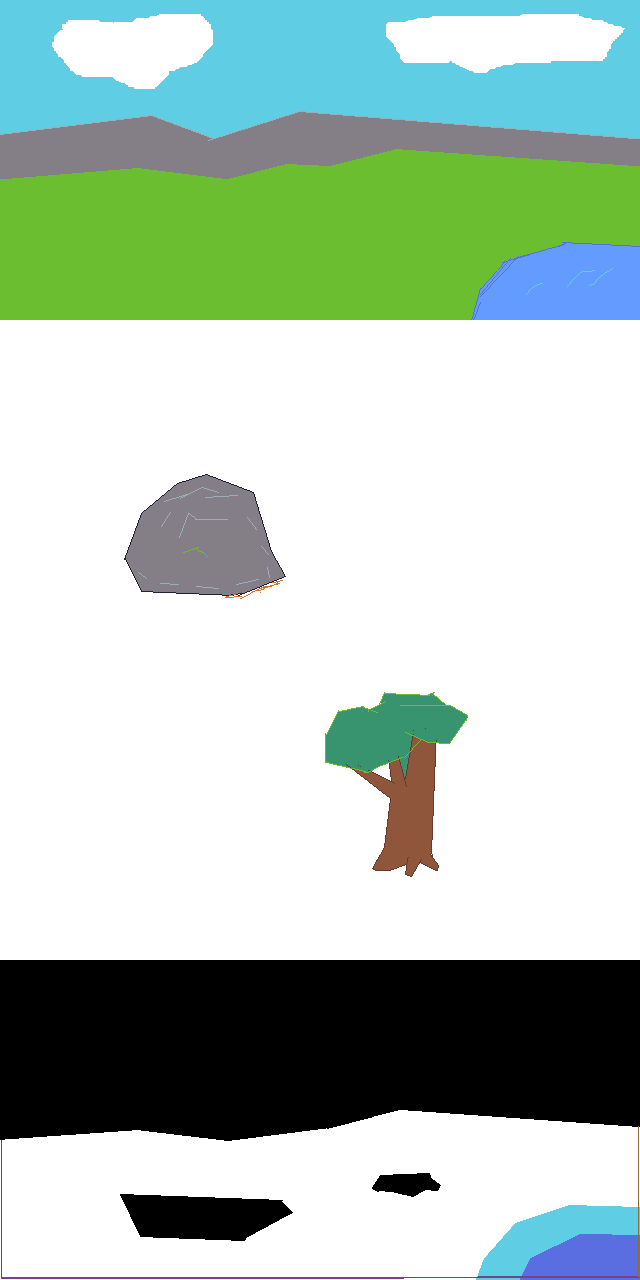
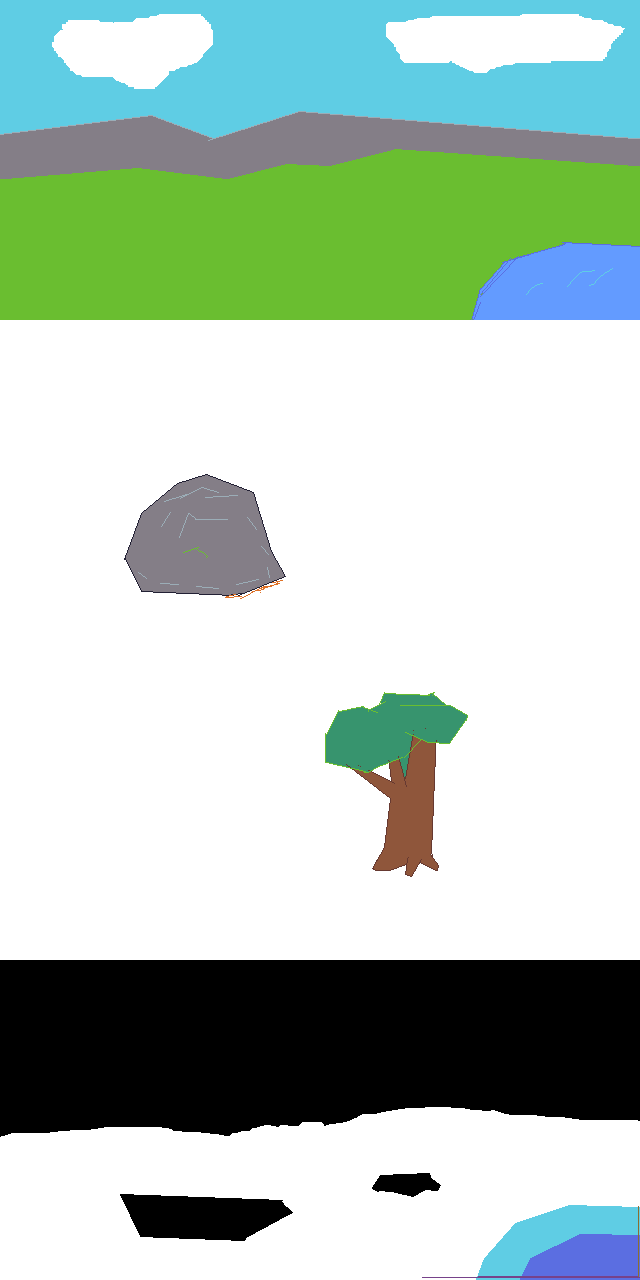
Updated game test

diff --git a/game-test/game.html b/game-test/game.html
@@ -58,9 +58,13 @@ app.loader
 			const room = new PIXI.Container();
 			room.sortableChildren = true;
 			app.stage.addChild(room);
-			
+
 			const roomSheet = resources["room0.json"].spritesheet;
 			console.log(roomSheet);
+			const roomMap = {
+				pixels: [], width: 0, height: 0
+			};
+
 			Object.keys(roomSheet.textures)
 				.forEach(name => {
 					const info = {};
@@ -90,8 +94,10 @@ app.loader
 							map.texture.orig.width, map.texture.orig.height,
 							0,0,
 							map.width, map.height);
-						const pixels = ctx.getImageData(0, 0, map.width, map.height).data
-						console.log(pixels);
+						roomMap.pixels = ctx.getImageData(0, 0, map.width, map.height).data
+						roomMap.width = map.width;
+						roomMap.height = map.height;
+						//console.log(roomMap.pixels);
 					}
 				});
 
@@ -126,6 +132,15 @@ room
 
 			//    app.stage.addChild(bunny);
 
+			const playerCanvas = document.createElement('canvas');
+			const playerCtx = playerCanvas.getContext('2d');
+			const player = {
+				x: 110, y: 318,
+				dx: 0, dy: 0,
+				pixels: {},
+				anchor: { x: 0, y: 0, width: 0, height: 0 }
+			}
+
 			const sheet2 = resources["sprite-test-v2.json"].spritesheet;
 			console.log(sheet2);
 			const animations = {};
@@ -139,11 +154,31 @@ room
 							info[pair[0]] = pair[1];
 						});
 					if('tag' in info) {
-						if (!(info.tag in animations)) {
-							animations[info.tag] = [];
-						}
-						const frames = animations[info.tag];
-						frames.push(sheet2.textures[name]);
+						if(info.tag == 'map') {
+							const map = new PIXI.Sprite(sheet2.textures[name]);
+							console.log('Char Map: width - ' + map.width + ' height - ' + map.height);
+							playerCanvas.width = map.width;
+							playerCanvas.height = map.height;
+							console.log('txt ' + map.texture.orig.x + ' ' + map.texture.orig.y);
+							playerCtx.drawImage(map.texture.baseTexture.resource.source,
+								map.texture.orig.x, map.texture.orig.y,
+								map.texture.orig.width, map.texture.orig.height,
+								0,0,
+								map.width, map.height);
+							player.pixels = playerCtx.getImageData(0, 0, map.width, map.height).data;
+							console.log(player.pixels);
+							console.log(map.anchor);
+							player.anchor.x = map.anchor.x;
+							player.anchor.y = map.anchor.y;
+							player.anchor.width = map.width;
+							player.anchor.height = map.height;
+						}// else {
+							if (!(info.tag in animations)) {
+								animations[info.tag] = [];
+							}
+							const frames = animations[info.tag];
+							frames.push(sheet2.textures[name]);
+						//}
 					}
 					console.log(info);
 				});
@@ -163,16 +198,13 @@ room
 			let anim = anims.stand;
 			//anim.updateAnchor = true;  
 
-			anim.x = 0;
-			anim.y = 160;
-			anim.zIndex = 160;
+			anim.x = player.x;
+			anim.y = player.y;
+			anim.zIndex = player.y;
 
-			const player = {
-				x: 0, y: 160,
-				dx: 0, dy: 0
-			}
 			function mvLeft() {
 				console.log('left');
+				player.dy = 0;
 				if (player.dx < 0) {
 					player.dx = 0;
 				} else {
@@ -181,6 +213,7 @@ room
 			}
 			function mvRight() {
 				console.log('right');
+				player.dy = 0;
 				if (player.dx > 0) {
 					player.dx = 0;
 				} else {
@@ -189,6 +222,7 @@ room
 			}
 			function mvUp() {
 				console.log('up');
+				player.dx = 0;
 				if (player.dy < 0) {
 					player.dy = 0;
 				} else {
@@ -197,6 +231,7 @@ room
 			}
 			function mvDown() {
 				console.log('down');
+				player.dx = 0;
 				if (player.dy > 0) {
 					player.dy = 0;
 				} else {
@@ -222,7 +257,15 @@ room
 			room.addChild(anim);
 
 			console.log(room);
-//			let ctr = 0;
+
+			console.log(roomMap.pixels);
+
+			const mapAnim = anims.map;
+			room.addChild(mapAnim);
+			mapAnim.x = player.x;
+			mapAnim.y = player.y;
+			mapAnim.zIndex = player.y + 1;
+
 			// Listen for frame updates
 			app.ticker.add(() => {
 				let newAnim = anim;
@@ -238,21 +281,45 @@ room
 					anim.play();
 					room.addChild(anim);
 				}
+
+				let flag = false;
+				for(let x = 0; x < player.anchor.width; x++) {
+					if(flag) { break; }
+					const roomX = (player.x + player.dx + x) - Math.floor(player.anchor.width * player.anchor.x);
+					for(let y = 0; y < player.anchor.height; y++) {
+						const roomY = (player.y + player.dy + y) - Math.floor(player.anchor.height * player.anchor.y);
+						const playerOffset = (x + (y * player.anchor.width)) * 4;
+						const roomOffset = (roomX + (roomY * roomMap.width)) * 4;
+						// out of bounds on room
+						if((roomOffset < 0) || (roomOffset > (roomMap.pixels.length - 4))) { continue; }
+						// player map is transparent
+						if(player.pixels[playerOffset + 3] == 0) { continue; }
+						//console.log('poffs ' + playerOffset + ' xy ' + x + ', ' + y + 'alpha ' + player.pixels[playerOffset + 3] + 'r ' + player.pixels[playerOffset]);
+						// room map is transparent
+						if(roomMap.pixels[roomOffset + 3] == 0) { continue; }
+						const r = roomMap.pixels[roomOffset];
+						const g = roomMap.pixels[roomOffset + 1];
+						const b = roomMap.pixels[roomOffset + 2];
+						if((r == 0) && (g == 0) && (b == 0)) {
+							//console.log('stop: xy ' + x + ', ' + y + ', playerxy = ' + player.x + ', ' + player.y + ', roomxy ' + roomX + ', ' + roomY);
+							player.dx = 0;
+							player.dy = 0;
+							flag = true;
+							break;
+						}
+						//if(x==0 && y==0) { console.log( "px,y: " + x + ", " + y + ", roomx,y: " + roomX + ", " + roomY); }
+					}
+				}
+				//if(flag) { console.log('stop'); }
 				player.x += player.dx;
 				player.y += player.dy;
+				if((player.dx != 0) || (player.dy != 0))console.log('px,y ' + player.x + ', ' + player.y);
 				anim.x = player.x;
 				anim.y = player.y;
 				anim.zIndex = player.y;
-				
-/*				ctr += 1;
-				if (ctr > 10) {
-					room.removeChild(anim);
-				}
-				if (ctr > 30) {
-					app.stage.removeChild(room);
-				}*/
-			// each frame we spin the bunny around a bit
-			//      bunny.rotation += 0.01;
+				mapAnim.x = anim.x;
+				mapAnim.y = anim.y;
+				mapAnim.zIndex = anim.y + 1;
 			});
 		}
 	);
